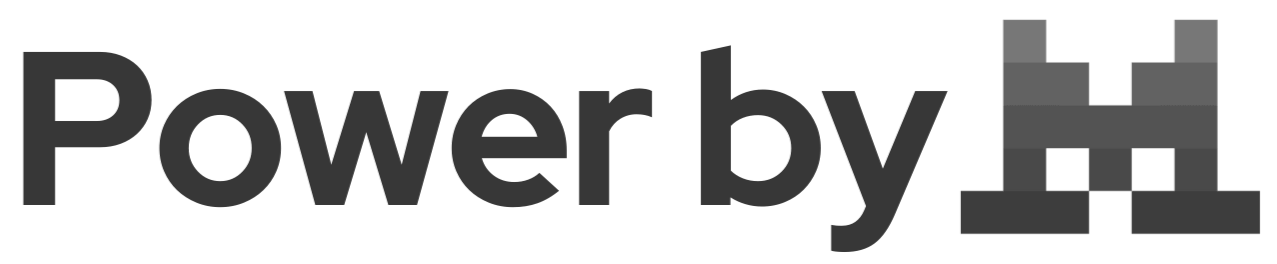
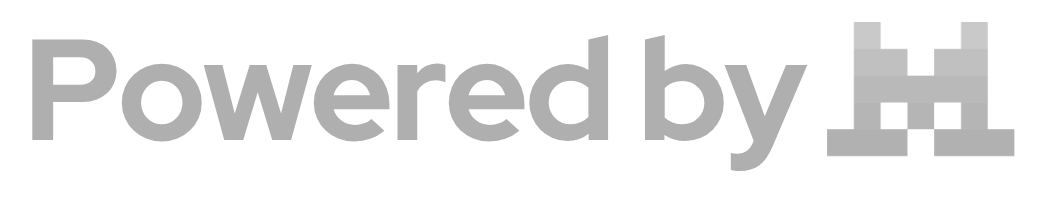
refactor: update layout and assets in multiple Home sections
- Updated power-by-mistral.png with new design
- Refactored FeaturesSection, GettingStartedSection, HowItWorksSection components
- Adjusted Header layout and content
- Updated Home.jsx to reflect component changes and new structure

diff --git a/src/components/HowItWorksSection/HowItWorksSection.jsx b/src/components/HowItWorksSection/HowItWorksSection.jsx
@@ -1,4 +1,3 @@
-import { div } from 'framer-motion/client'
 import React from 'react'
 import { Link } from 'react-router-dom'
 import GettingStartedSection from '../GettingStartedSection/GettingStartedSection'
@@ -6,23 +5,23 @@ import GettingStartedSection from '../GettingStartedSection/GettingStartedSectio
 const HowItWorksSection = () => {
   return (
     <>
-      <div className="w-[90%] my-5 max-w-[400px] font-[Poppins] bg-gradient-to-b from-[#3B3AEF] via-[#3B3AEF] to-[#222189] mx-auto rounded-3xl overflow-hidden flex justify-center items-center p-5 sm:w-[95%] sm:max-w-[850px] sm:h-[400px] md:h-[370px] sm:justify-evenly lg:max-w-[1000px] lg:h-[400px] xl:max-w-[1300px] xl:justify-around xl:rounded-4xl xl:h-[470px]">
-        <div className="w-full h-auto flex flex-col justify-start items-center gap-2 sm:w-[270px] sm:items-start md:w-[390px] lg:w-[450px] xl:w-[550px]">
-          <h3 className="text-[25px] font-normal md:text-[27px] lg:text-[32px] xl:text-[37px]">
+      <div className="w-[90%] my-10 max-w-[400px] font-[Poppins] bg-gradient-to-b from-[#3B3AEF] via-[#3B3AEF] to-[#222189] mx-auto rounded-3xl overflow-hidden flex justify-center items-center p-5 sm:w-[95%] sm:max-w-[850px] sm:h-[400px] md:h-[370px] sm:justify-evenly lg:max-w-[1000px] lg:h-[400px]">
+        <div className="w-full h-auto flex flex-col justify-start items-center gap-2 sm:w-[270px] sm:items-start md:w-[390px] lg:w-[450px]">
+          <h3 className="text-[25px] font-normal md:text-[27px] lg:text-[32px]">
             Aurea uses artificial intelligence to analyze your SME’s performance
           </h3>
-          <p className="text-[15px] text-white lg:text-[17px] xl:text-[20px]">
+          <p className="text-[15px] text-white lg:text-[17px] ">
             situation and provide personalized recommendations to reduce costs, optimize resources, and increase your revenue. It’s like having a finance team—without the extra salaries.
           </p>
           <Link to={"/slides"}>
             <button className='w-[250px] h-[45px] bg-white text-[#222189] cursor-pointer mt-5 rounded-[15px] font-medium border-2 border-white transition ease-in-out hover:bg-transparent hover:text-white'>I’m Ready to Grow</button>
           </Link>
         </div>
-        <div className='w-[300px] h-[300px] hidden sm:flex justify-center items-center lg:w-[350px] xl:w-[430px]'>
+        <div className='w-[300px] h-[300px] hidden sm:flex justify-center items-center lg:w-[350px]'>
           <img src="/up.png" className='w-full' alt="Growth illustration" />
         </div>
       </div>
-      <div className='w-full flex flex-col justify-center items-center py-2.5 gap-5 sm:flex-row lg:justify-evenly lg:gap-0 '>
+      <div className='w-full max-w-[1050px] mx-auto flex flex-col justify-center items-center gap-10 sm:flex-row lg:justify-between '>
         <GettingStartedSection userPhoto={"user-image"} tittle={"Tell Aurea how your business works."} description={"What do you sell? How much do you earn? What are your expenses?"} userTestimony={"I didn't know where to start with my finances. Aurea showed me step by step what to do. In just 3 weeks, I increased my income by 15%."} userName={"— Andrés M. , E-commerce Entrepreneur"} />
         <GettingStartedSection userPhoto={"user-image-2"} tittle={"Grow without stress"} description={"Aurea takes care of the finances. You focus on what you do best: growing your business"} userTestimony={"I felt like I was working non-stop but earning too little. PymeUp analyzed everything and gave me clear, actionable steps. It was like hiring a digital CFO!"} userName={"—Diana C., Creative Agency Founder"} />
       </div>

diff --git a/src/pages/Home/Home.jsx b/src/pages/Home/Home.jsx
@@ -16,8 +16,8 @@ const textVariants = {
     transition: { delay: i * 0.2, duration: 0.6, ease: "easeOut" },
   }),
 };
-
 const Home = () => {
+  const Motion = motion;
   return (
     <>
       <section className="relative overflow-hidden w-full h-[670px] bg-gradient-to-b from-[#3B3AEF] via-[#3B3AEF] to-[#222189] sm:h-[780px] xl:h-[100vh]">
@@ -71,16 +71,21 @@ const Home = () => {
       <section>
         <Header />
         <FeaturesSection />
-        <div className="w-full h-[200px] font-[Poppins] flex justify-center items-center md:h-[200px]">
+        <div className="w-full h-[200px] font-[Poppins] flex justify-center items-center md:h-[150px]">
           <p className="w-[280px] text-center text-[22px] font-medium text-[#555555] sm:w-[600px] sm:text-[21px] md:text-[23px] xl:w-[700px] xl:text-[26px]">
             <span className="text-[#222189]">Aurea</span> Not only manages, it teaches you to make financial decisions like an expert.
           </p>
         </div>
         <HowItWorksSection />
       </section>
-      <main className="w-full h-[800px]">
-
-      </main>
+      <section className="w-full h-[100px] flex justify-center items-center mt-[50px]">
+        <img src="/power-by-mistral.png" className="w-[230px]" alt="" />
+      </section>
+      <section className="w-full h-[100px] flex justify-center items-center">
+        <p className="text-[16px] font-medium text-[#555555b7]">
+          ©2025 Aurea. All rights reserved.
+        </p>
+      </section>
     </>
   );
 };

diff --git a/src/components/FeaturesSection/FeaturesSection.jsx b/src/components/FeaturesSection/FeaturesSection.jsx
@@ -2,7 +2,7 @@ import FeatureCard from "../../components/FeatureCard/FeatureCard";
 
 const FeaturesSection = () => {
     return (
-        <div className="w-full h-[380px] flex flex-col items-center justify-evenly md:h-[250px] md:flex-row md:flex-wrap md:justify-around lg:justify-between xl:justify-evenly px-[30px] lg:h-[140px] ">
+        <div className="w-full h-[380px] mx-auto max-w-[1300px] flex flex-col items-center justify-evenly md:h-[250px] md:flex-row md:flex-wrap md:justify-around lg:justify-between xl:justify-evenly px-[30px] lg:h-[140px] ">
             <FeatureCard
                 icon={
                     <svg xmlns="http://www.w3.org/2000/svg" width="30" height="30" fill="currentColor" className="bi bi-mortarboard-fill" viewBox="0 0 16 16">

diff --git a/src/components/GettingStartedSection/GettingStartedSection.jsx b/src/components/GettingStartedSection/GettingStartedSection.jsx
@@ -3,7 +3,7 @@ import React from 'react'
 const GettingStartedSection = ({userPhoto ,tittle, description, userTestimony, userName}) => {
     return (
         <div className='w-full max-w-[440px] font-[Poppins] flex flex-col justify-center items-center lg:max-w-[500px]'>
-            <div className='w-[90%] h-[320px] bg-gradient-to-b from-[#3B3AEF] via-[#3B3AEF] to-[#222189] mx-auto rounded-3xl p-5 lg:h-[300px]'>
+            <div className='w-[90%] h-[320px] bg-gradient-to-b from-[#3B3AEF] via-[#3B3AEF] to-[#222189] mx-auto rounded-3xl p-5 lg:p-5 lg:h-[300px]'>
                 <h4 className='lg:w-[365px] text-[24px] lg:text-[28px]'>{tittle}</h4>
                 <p className='lg:w-[365px] text-[15px] lg:text-[16px]'>{description}</p>
             </div>

diff --git a/src/components/Header/Header.jsx b/src/components/Header/Header.jsx
@@ -16,7 +16,7 @@ const Header = () => {
 
   return (
     <>
-      <header className='w-full h-16 backdrop-blur-2xl bg-[#ffffff73] shadow-md sticky top-0 flex justify-between items-center px-[16px] xl:px-[20px]'>
+      <header className='w-full h-16 backdrop-blur-2xl bg-[#ffffffc2] shadow-md sticky top-0 flex justify-between items-center px-[16px] xl:px-[20px]'>
         <div className='w-[100px]'>
           <img src="/aurea-ia-gray-logo.png" alt="Gray logo of PymeUp" />
         </div>
